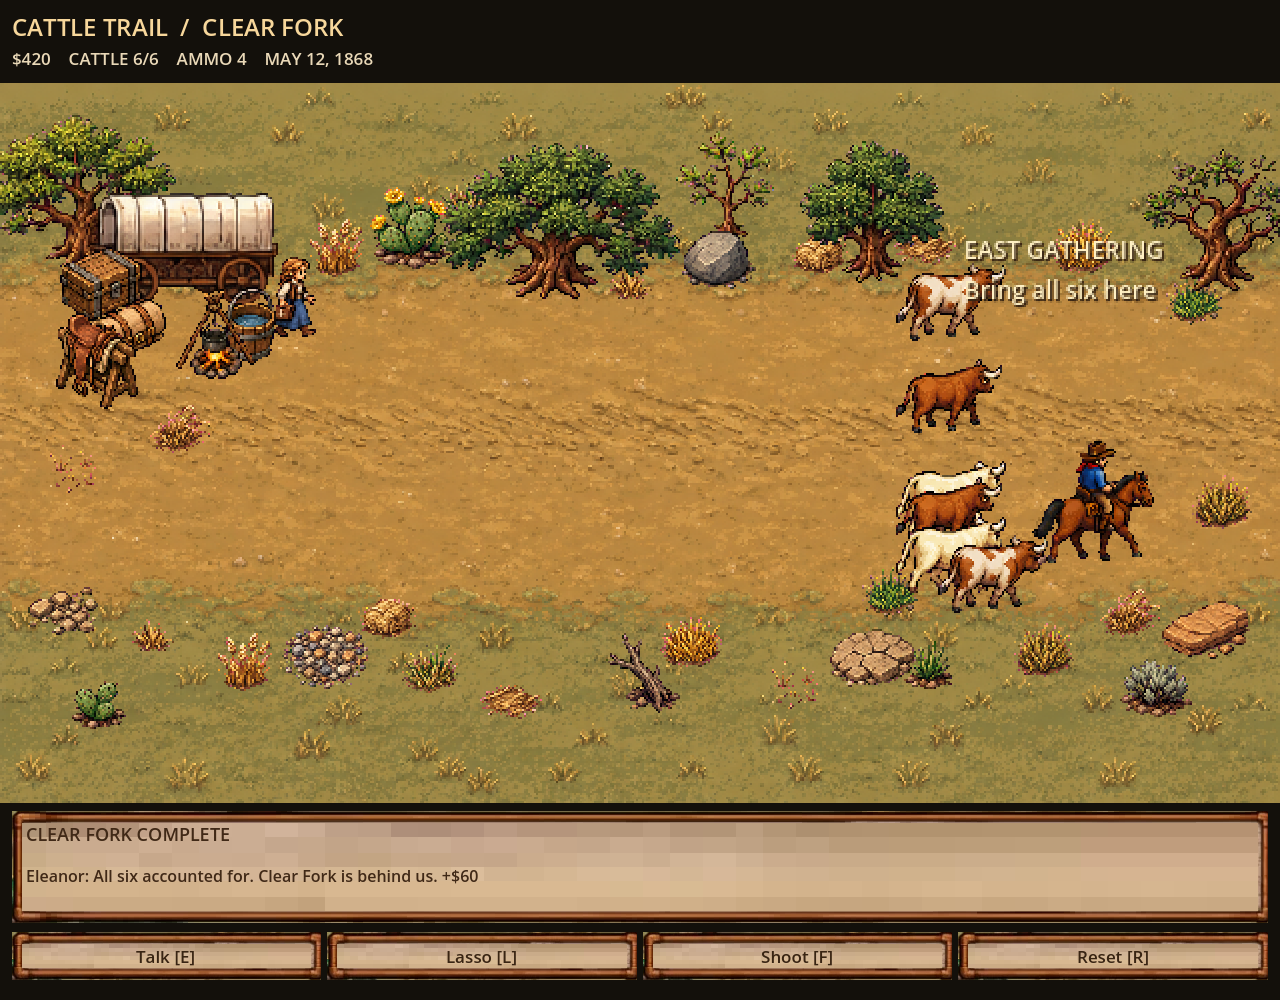
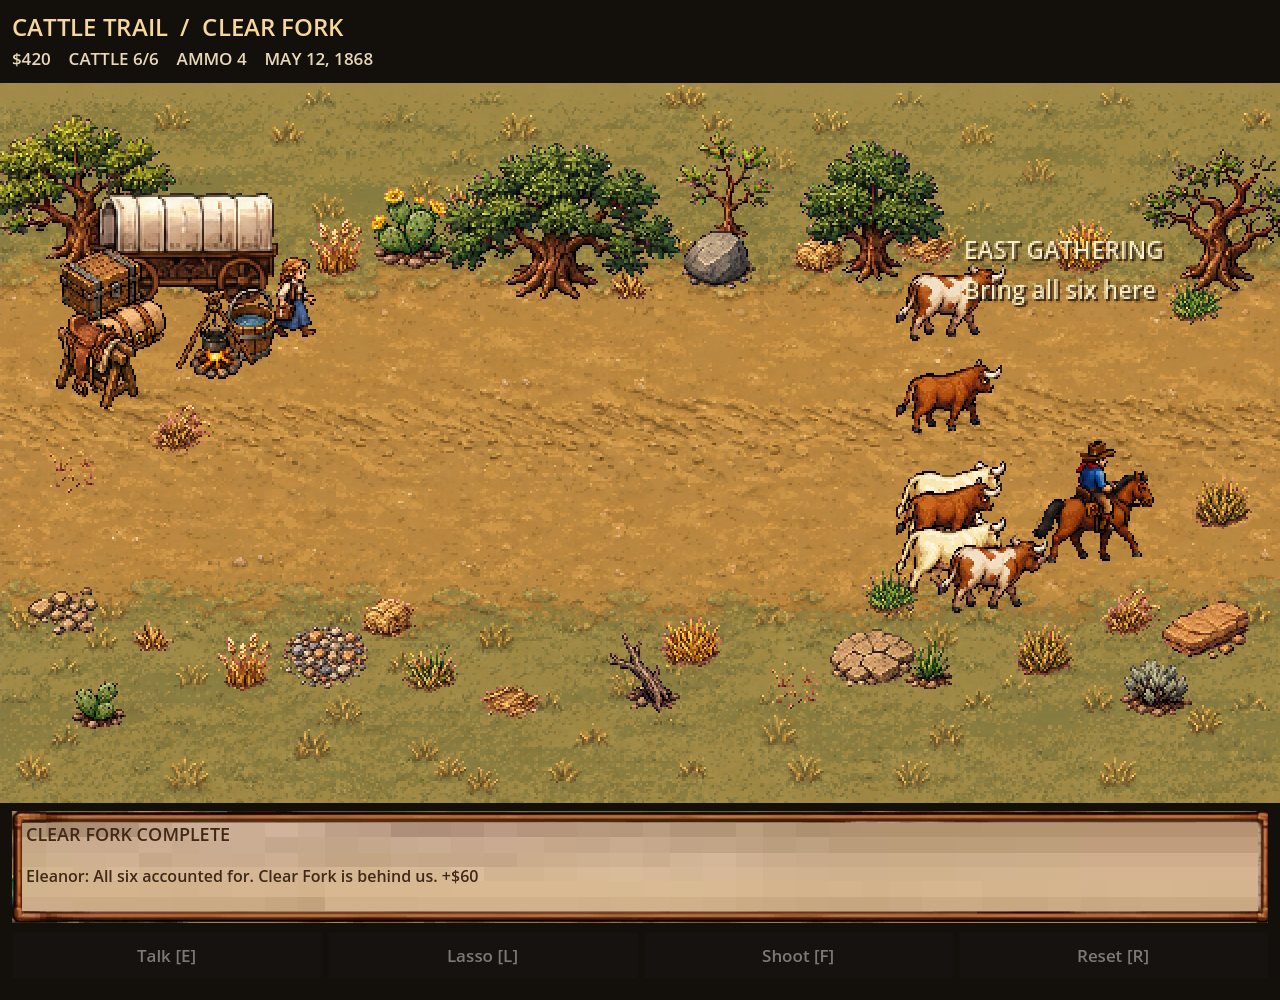
Improve gait continuity and fix phone controls and shared wagon collision

Changed region(s): [[0.0, 0.93, 1.0, 0.992]]

diff --git a/tools/curate_room.py b/tools/curate_room.py
@@ -28,6 +28,7 @@ for name in ['rider','longhorn','cream','spotted','eleanor','rustler']:
         spec['clips']['talk_east']={'frames':[4,5,4,5],'fps':3,'loop':False}
     spec['clips']['idle']=copy.deepcopy(spec['clips']['idle_east'])
     spec['status']='selected_for_room_review'
+    spec['locomotion']={'nominal_speed':72 if name=='rider' else 36,'facing_bias':1.2,'phase_policy':'Preserve walk-cycle phase across facing changes','speed_scale_limits':[0.35,1.8],'idle_when_blocked':True}
     spec['selection_note']='Walk and stationary facing reviewed together; action strips selectively enabled. Final room acceptance is separate.'
     out['sprites'][name]=spec
 out['sprites']['wagon']=copy.deepcopy(original['sprites']['wagon'])
